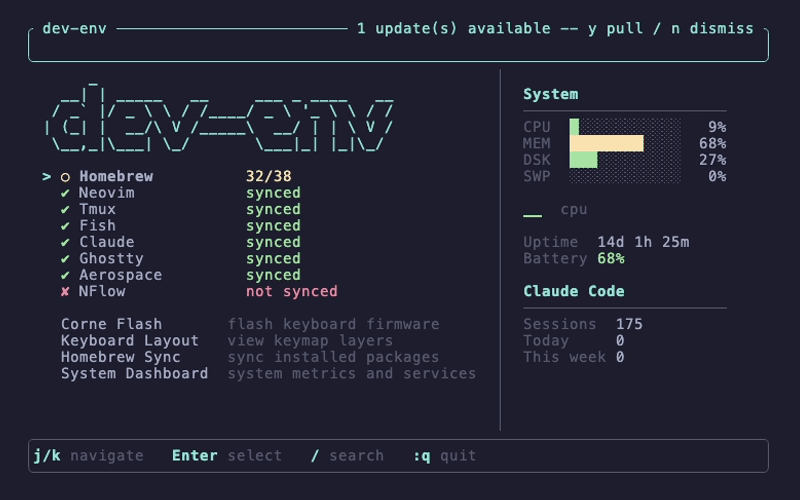
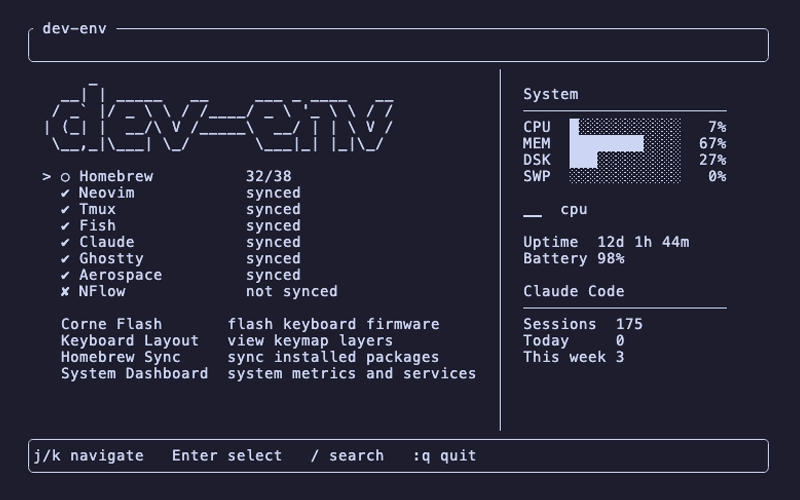
recover changes from old laptop working copy

diff --git a/ai_strategy.md b/ai_strategy.md
@@ -1,0 +1,23 @@
+AI Strategy
+----
+Aim
+---
+The aim of the AI strategy is two solve two major problems that we have been seeing as a company and as a build team:
+
+1. Output quality => Customers have been complaining of poor output quality in the platform compared to other AI tools. Quality itself is entirely subjective, but there are two main points that cover the quality itself: Factual accurateness and how factual the end answer is. Then _perceived_ quality. So how does the platform feel to use? A simple example of this is that if you present someone with two LLM answers, one with non formatted text and a completely factual answer that responds slowly with a loading state and another with a less factual answer but with proper markdown formatting, paragraphs lists etc, they will tend to prefer the latter
+2. Feature parity with other AI tools
+
+How do we address this?
+---
+1. LLM Operations
+	a. Improving model onboarding and onboarding modern models to move away from gpt-4o being the prominent model on the platform
+	b. Revisiting whether the LLM service is the right approach and exploring third party open source AI gateway tools
+	c. Evaluation as a first class priority in our process
+3. Everything becomes a chat behind the scenes, allowing for the user to be able to iterate on the answer, eventually enabling the assistant across all areas of the site
+4. MCP & Integrations
+5. Skills framework
+6. Research assitant v3, removing the loading states and showing tool calling
+7. Better tools for the LLM - Todo lists, plan mode & clarifying questions
+8. Agent Orchestration - Managing agents in a unified platform across the platform => Sub agents, context management
+9. Code execution
+11. Improvements to RAG & Search
